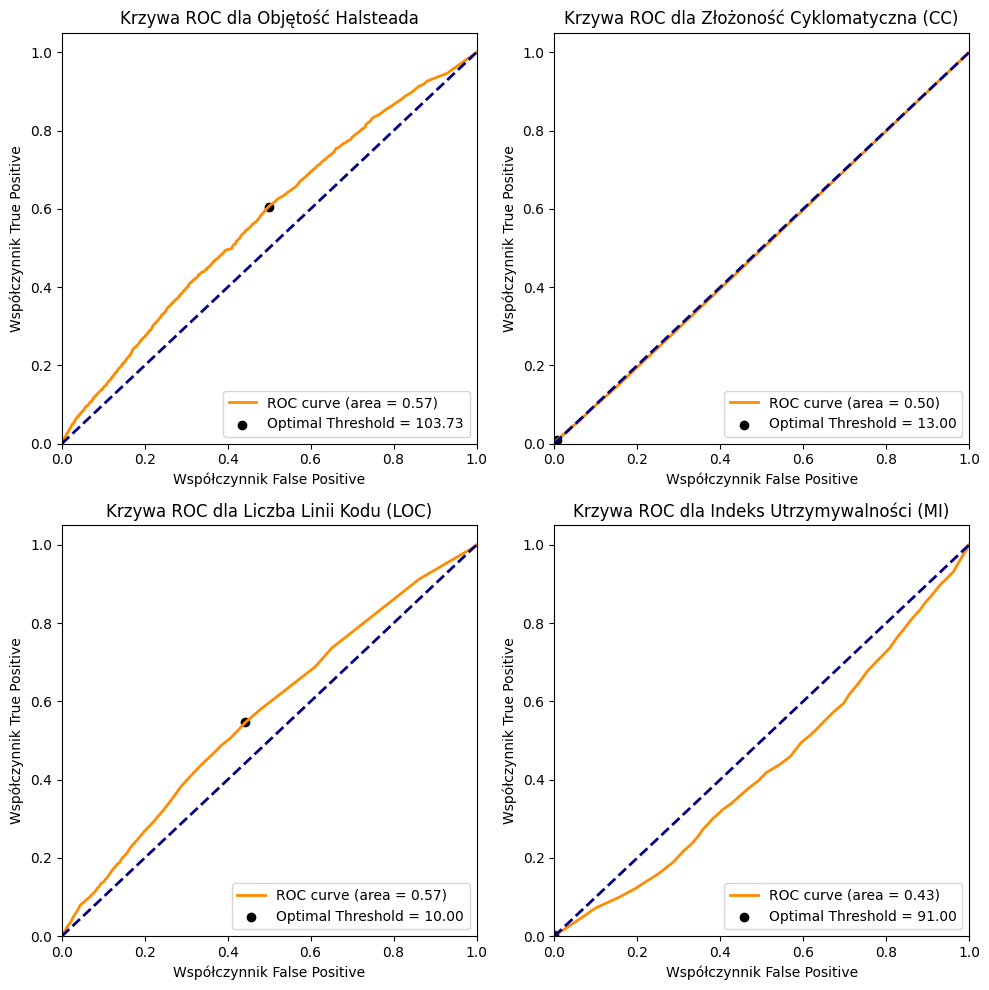
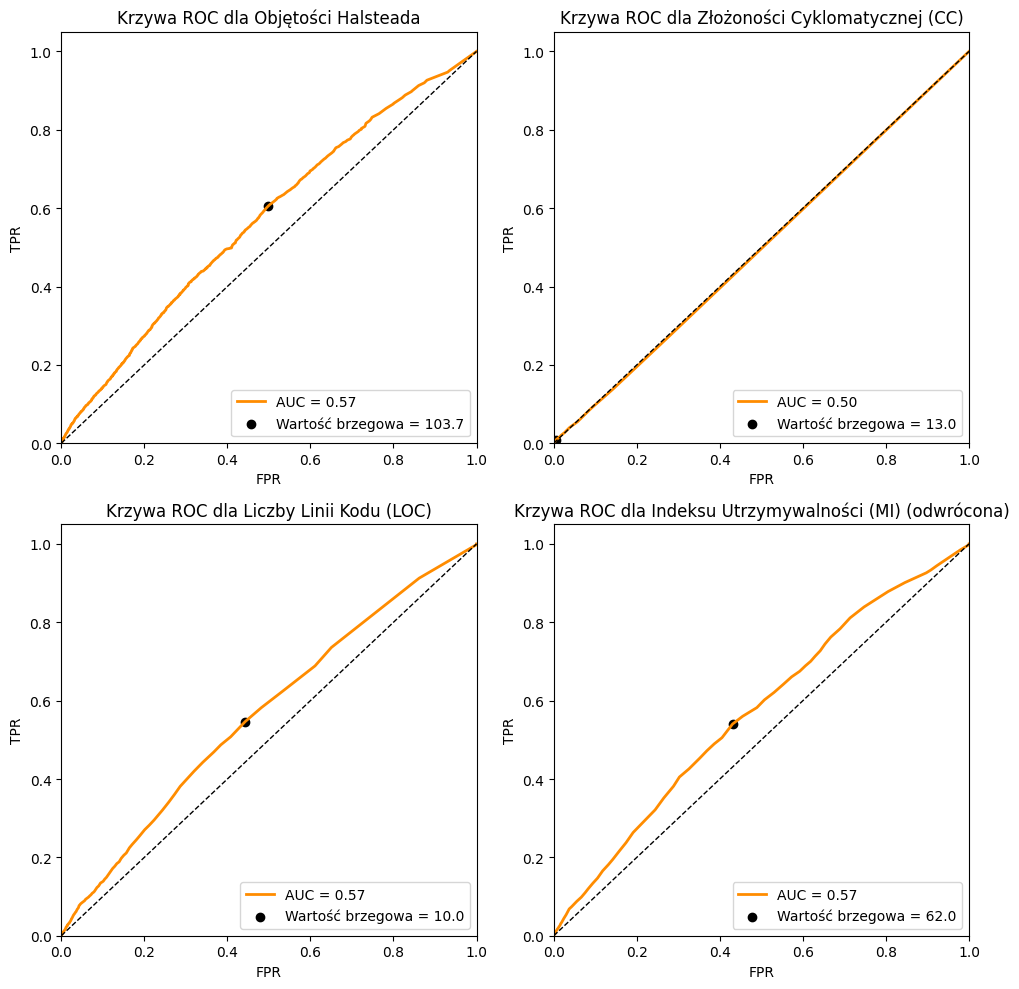
final display of ROC curve diagrams

diff --git a/roc_curve/plot_roc_curve.py b/roc_curve/plot_roc_curve.py
@@ -13,16 +13,15 @@ metrics = [
 ]
 
 translation_map = {
-    'Halstead Volume': 'Objętość Halsteada',
-    'Cyclomatic Complexity (CC)': 'Złożoność Cyklomatyczna (CC)',
-    'Lines Of Code (LOC)': 'Liczba Linii Kodu (LOC)',
-    'Microsoft Maintainability Index (MI)': 'Indeks Utrzymywalności (MI)',
-    'Maintainability Index (MI) - calculated': 'Wyliczony Indeks Utrzymywalności (MI)'
+    'Halstead Volume': 'Objętości Halsteada',
+    'Cyclomatic Complexity (CC)': 'Złożoności Cyklomatycznej (CC)',
+    'Lines Of Code (LOC)': 'Liczby Linii Kodu (LOC)',
+    'Microsoft Maintainability Index (MI)': 'Indeksu Utrzymywalności (MI) (odwrócona)'
 }
 
 
 def calculate_maintainability_index(halstead_volume, cc, loc):
-    return int(max(0, (171.0 - 5.2 * math.log(halstead_volume) - 0.23 * cc - 16.2 * math.log(loc)) * (100.0 / 171.0)))
+    return int(max(0, (171 - 5.2 * math.log(halstead_volume) - 0.23 * cc - 16.2 * math.log(loc)) * (100 / 171)))
 
 
 def main():
@@ -39,22 +38,25 @@ def main():
     for i, metric in enumerate(metrics, 1):
         X = data[metric].values.reshape(-1, 1)
 
+        if metric == 'Microsoft Maintainability Index (MI)':
+            X = -X  # Reverse the scoring for MI, as higher scores are better
+
         fpr, tpr, thresholds = roc_curve(y, X)
         roc_auc = auc(fpr, tpr)
 
         optimal_idx = np.argmax(tpr - fpr)
-        optimal_threshold = thresholds[optimal_idx]
+        optimal_threshold = abs(thresholds[optimal_idx])
         calculated_thresholds[metric] = optimal_threshold
 
         plt.subplot(2, 2, i)
-        plt.plot(fpr, tpr, color='darkorange', lw=2, label=f'ROC curve (area = {roc_auc:.2f})')
-        plt.plot([0, 1], [0, 1], color='navy', lw=2, linestyle='--')
+        plt.plot(fpr, tpr, color='darkorange', lw=2, label=f'AUC = {roc_auc:.2f}')
+        plt.plot([0, 1], [0, 1], color='black', lw=1, linestyle='--')
         plt.scatter(fpr[optimal_idx], tpr[optimal_idx], marker='o', color='black',
-                    label=f'Optimal Threshold = {optimal_threshold:.2f}')
+                    label=f'Wartość brzegowa = {optimal_threshold:.1f}')
         plt.xlim([0.0, 1.0])
         plt.ylim([0.0, 1.05])
-        plt.xlabel('Współczynnik False Positive')
-        plt.ylabel('Współczynnik True Positive')
+        plt.xlabel('FPR')
+        plt.ylabel('TPR')
         plt.title(f'Krzywa ROC dla {translation_map[metric]}')
         plt.legend(loc="lower right")
 
